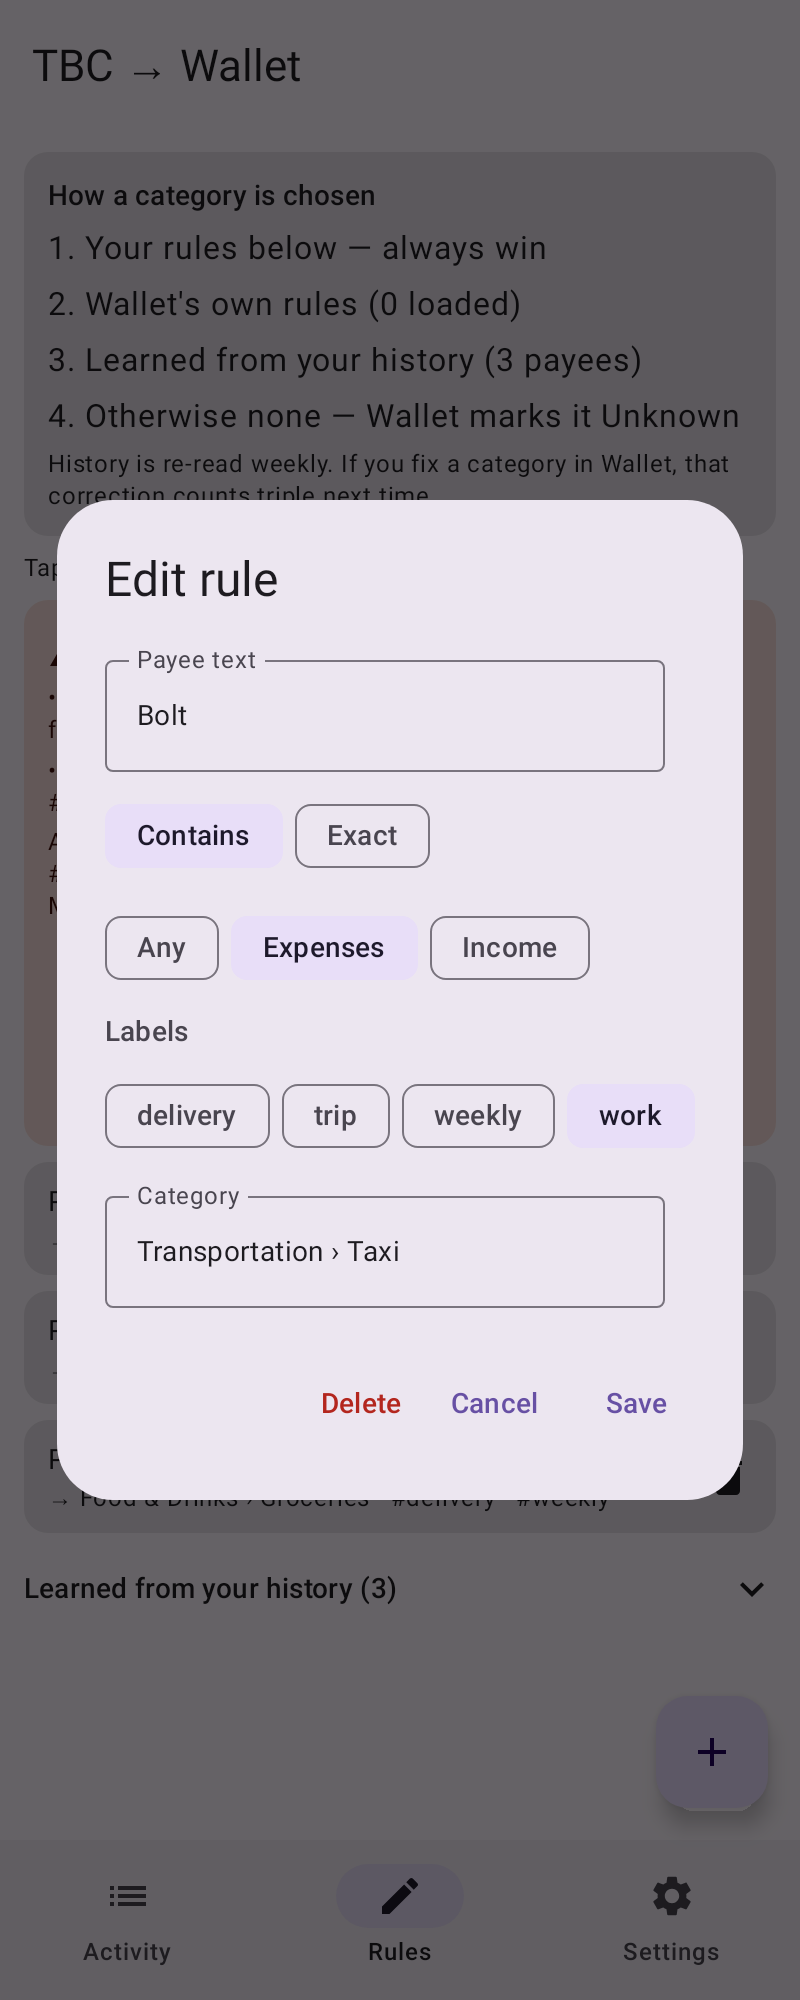
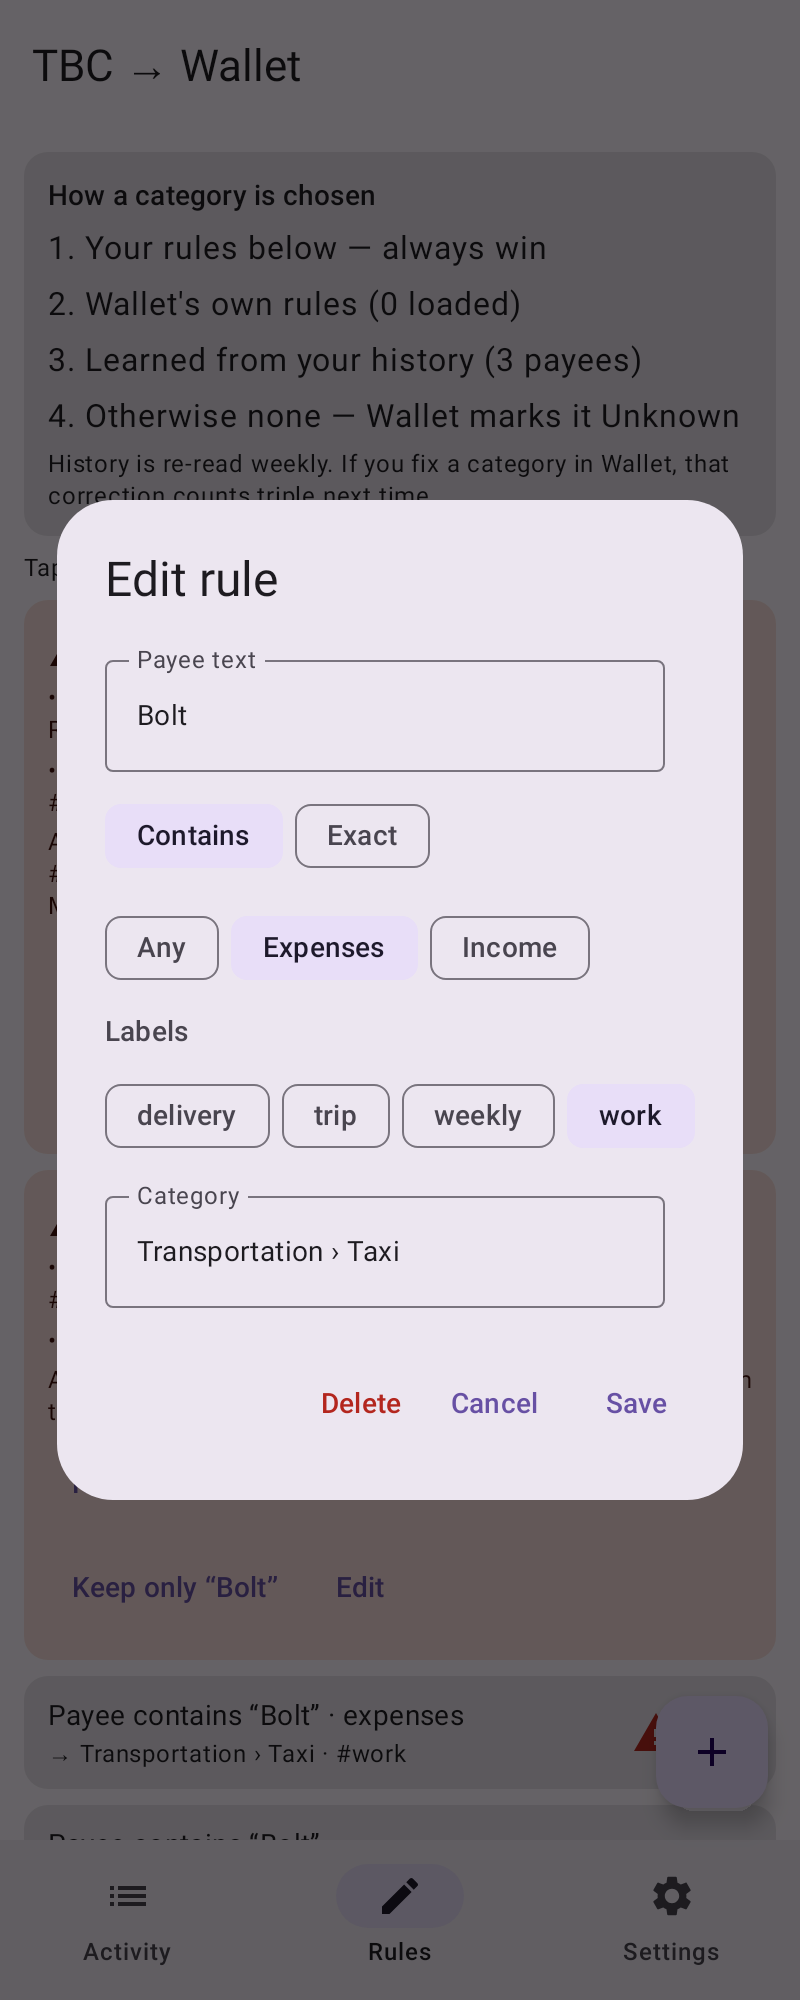
Name clashing rules by scope in the clash card; drop stale labels on refresh failure
Two clashing rules with the same pattern but a different scope or match
type got identical buttons. The card's rule lines and the Keep only button
now include the scope (and exact), falling back to the category if that
still doesn't tell them apart, and each rule's Keep/Edit pair sits on its
own row. When the labels request fails, the cached labels are cleared so
the dialog never offers labels from a previous token's account.
Screenshots refreshed, with a scoped clash added to the sample data.

Claude-Session: https://claude.ai/code/session_017v3NayTK3raYdeRCJGeCRv

diff --git a/app/src/main/java/su/iho/tbc2wallet/MainActivity.kt b/app/src/main/java/su/iho/tbc2wallet/MainActivity.kt
@@ -331,10 +331,24 @@ private fun RuleRow(rule: UserRuleEntity, clashing: Boolean, onEdit: () -> Unit,
 
 private fun ruleSummary(rule: UserRuleEntity): String {
     val how = if (rule.matchType == "EXACT") "is" else "contains"
-    return "payee $how “${rule.pattern}”"
+    val scope = when (rule.appliesTo) { "EXPENSE" -> " for expenses"; "INCOME" -> " for income"; else -> "" }
+    return "payee $how “${rule.pattern}”$scope"
 }
 
 private fun ruleOutcome(rule: UserRuleEntity) = rule.categoryName + rule.labelNameList.joinToString("") { " #$it" }
+
+/**
+ * Short name for a rule on a clash button. Adds "exact" and the scope when set, and the category
+ * if that's still not enough, so the two buttons never read the same.
+ */
+private fun clashButtonName(rule: UserRuleEntity, other: UserRuleEntity): String {
+    fun base(r: UserRuleEntity) = "“${r.pattern}”" + listOfNotNull(
+        "exact".takeIf { r.matchType == "EXACT" },
+        when (r.appliesTo) { "EXPENSE" -> "expenses"; "INCOME" -> "income"; else -> null },
+    ).takeIf { it.isNotEmpty() }?.joinToString(prefix = " (", postfix = ")").orEmpty()
+    val name = base(rule)
+    return if (name.equals(base(other), ignoreCase = true)) "$name → ${rule.categoryName}" else name
+}
 
 /** Two rules that can match the same payee but disagree; only [RuleClash.winner] is applied. */
 @OptIn(ExperimentalLayoutApi::class)
@@ -356,10 +370,10 @@ private fun ClashCard(clash: RuleClash<UserRuleEntity>, onKeep: (UserRuleEntity)
                 "A payee matching both gets ${ruleOutcome(clash.winner)}, from the rule where ${ruleSummary(clash.winner)}.",
                 style = MaterialTheme.typography.bodySmall,
             )
-            FlowRow {
-                for (rule in listOf(a, b)) {
-                    TextButton(onClick = { onKeep(rule) }) { Text("Keep only “${rule.pattern}”") }
-                    TextButton(onClick = { onEdit(rule) }) { Text("Edit “${rule.pattern}”") }
+            for (rule in listOf(a, b)) {
+                FlowRow {
+                    TextButton(onClick = { onKeep(rule) }) { Text("Keep only ${clashButtonName(rule, other = if (rule == a) b else a)}") }
+                    TextButton(onClick = { onEdit(rule) }) { Text("Edit") }
                 }
             }
         }

diff --git a/app/src/main/java/su/iho/tbc2wallet/sync/Catalog.kt b/app/src/main/java/su/iho/tbc2wallet/sync/Catalog.kt
@@ -42,9 +42,9 @@ class Catalog(private val context: Context) {
         })
         // The labels endpoint isn't in the documented API facts, so a failure here only leaves
         // the rule dialog without labels to pick; it never blocks the rest of the catalog.
-        runCatching { api.labels() }
-            .onSuccess { labels -> dao.replaceLabels(labels.filterNot { it.archived }.map { LabelEntity(it.id, it.name) }) }
-            .onFailure { Log.w("Catalog", "labels not loaded", it) }
+        val labels = runCatching { api.labels() }.onFailure { Log.w("Catalog", "labels not loaded", it) }.getOrNull()
+        // On failure, drop the cache too: it may belong to a token that's no longer the one in use.
+        dao.replaceLabels(labels.orEmpty().filterNot { it.archived }.map { LabelEntity(it.id, it.name) })
         settings.lastCatalogRefresh = System.currentTimeMillis()
     }
 

diff --git a/app/src/test/java/su/iho/tbc2wallet/screenshots/RulesScreenshots.kt b/app/src/test/java/su/iho/tbc2wallet/screenshots/RulesScreenshots.kt
@@ -59,6 +59,8 @@ class RulesScreenshots {
                 categoryId = "groceries", categoryName = "Food & Drinks › Groceries", labelIds = "l1\nl2", labelNames = "delivery\nweekly"),
             UserRuleEntity(pattern = "Bolt", matchType = "CONTAINS", appliesTo = "EXPENSE",
                 categoryId = "taxi", categoryName = "Transportation › Taxi", labelIds = "l3", labelNames = "work"),
+            UserRuleEntity(pattern = "Bolt", matchType = "CONTAINS", appliesTo = "ANY",
+                categoryId = "fuel", categoryName = "Vehicle › Fuel"),
         ).forEach { dao.insertUserRule(it) }
         dao.replaceLearned(listOf(
             LearnedEntity("GLOVO TBILISI", "food", "Food & Drinks › Restaurant, fast-food", 7, 8),
